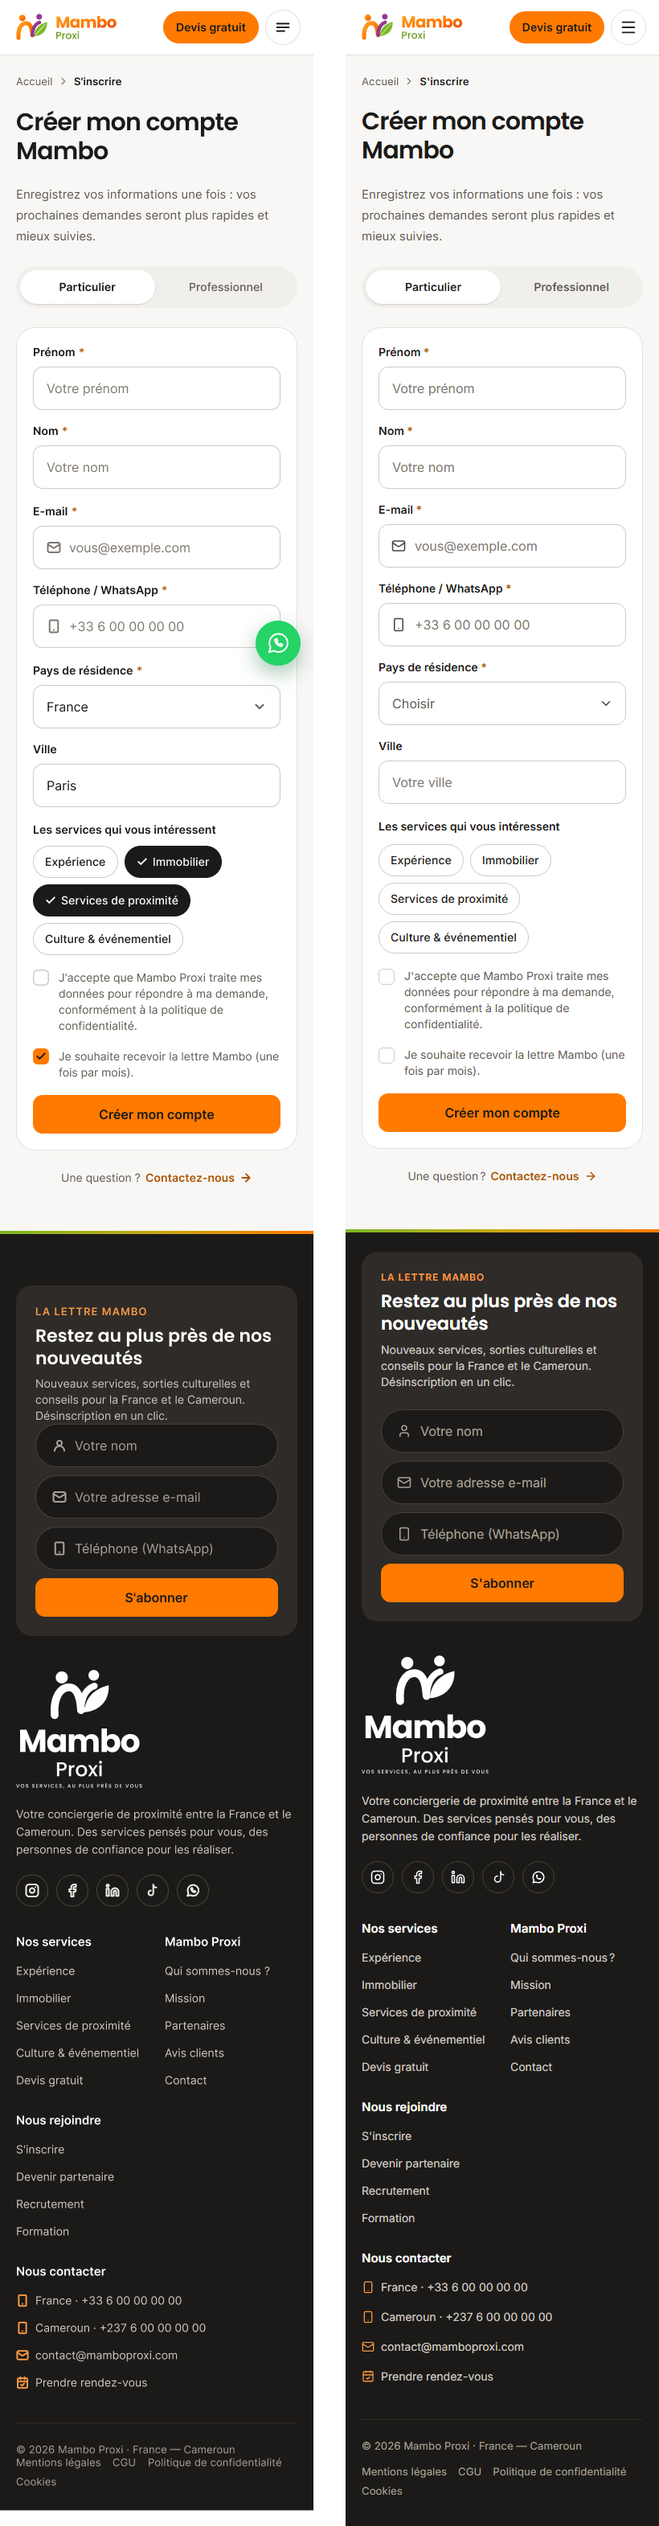
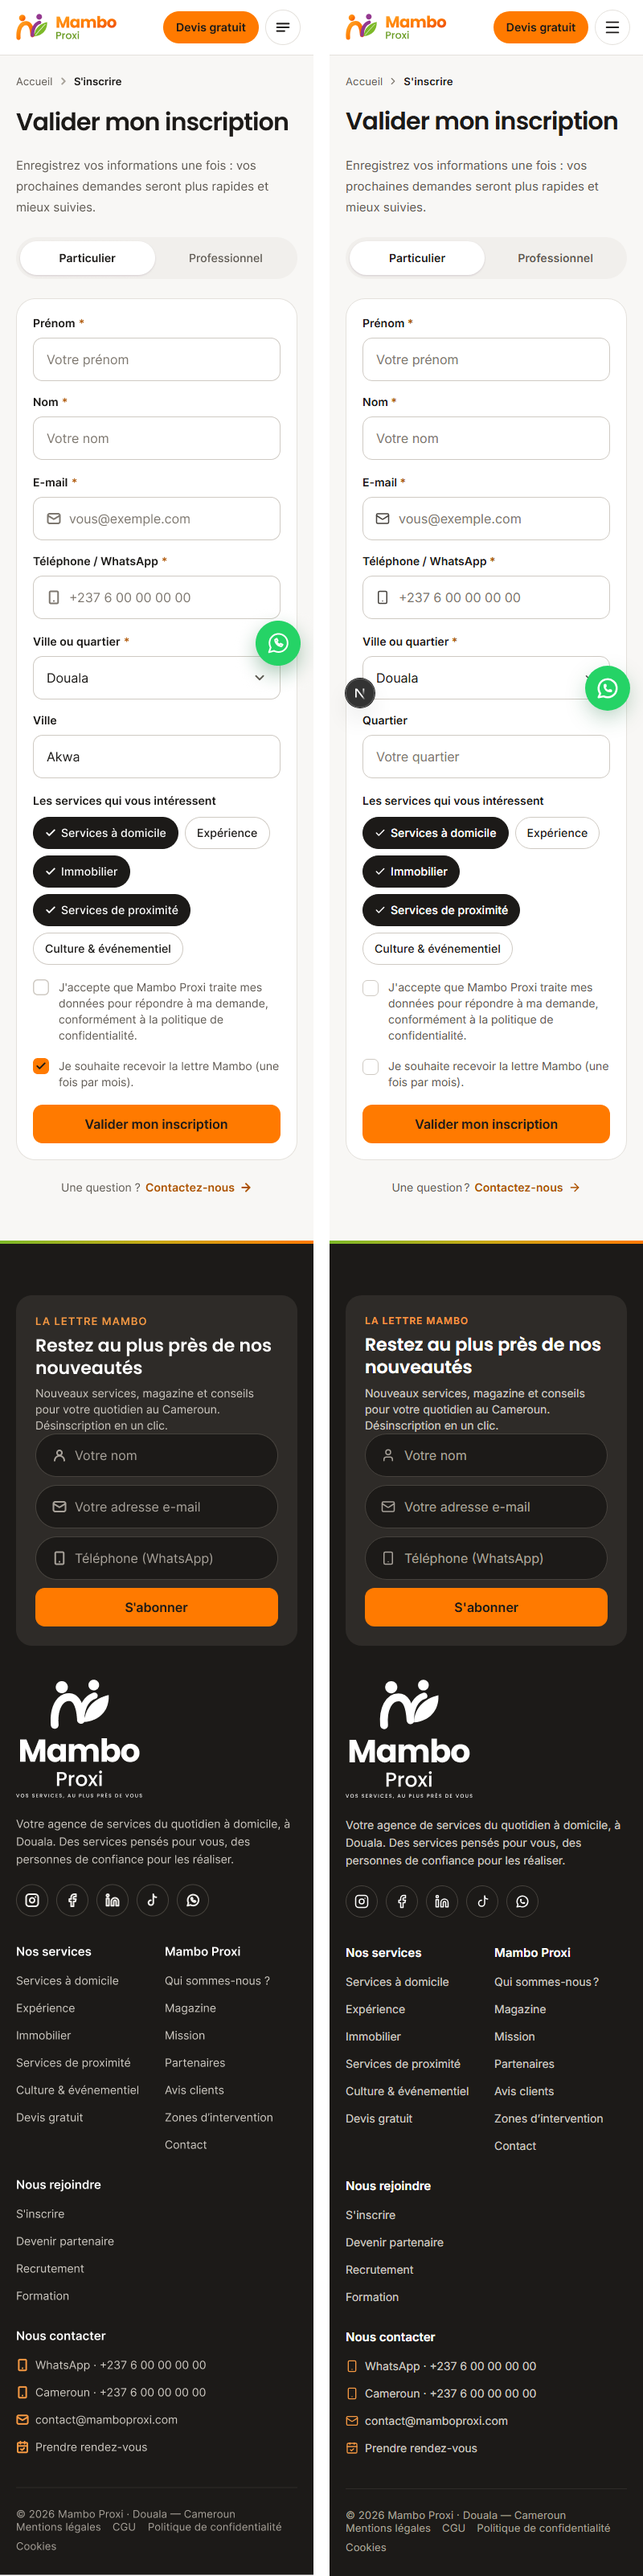
feat(inscription): en-tête et métadonnées traduits

Changed region(s): [[0.0, 0.0, 1.0, 1.0], [0.375, 0.2183, 0.4688, 0.2807], [0.9062, 0.2495, 1.0, 0.2807]]

diff --git a/src/app/[locale]/(site)/inscription/page.tsx b/src/app/[locale]/(site)/inscription/page.tsx
@@ -1,27 +1,31 @@
 import type { Metadata } from 'next';
+import { getTranslations } from 'next-intl/server';
 import { RegistrationLayout } from '@/components/forms/registration-layout';
 import { unwrap } from '@/lib/api/result';
 import { api, cached } from '@/lib/api/server';
 import { cacheTags } from '@/lib/api/tags';
 import { seoMetadata } from '@/lib/seo/metadata';
 
-export const metadata: Metadata = seoMetadata({
-  title: 'S’inscrire',
-  description:
-    'Créez votre compte Mambo : enregistrez vos informations une fois, ou rejoignez notre réseau de partenaires au Cameroun.',
-  path: '/inscription',
-});
+export async function generateMetadata(): Promise<Metadata> {
+  const t = await getTranslations('registration');
+  return seoMetadata({ title: t('metaTitle'), description: t('metaDescription'), path: '/inscription' });
+}
 
 type SearchParams = { searchParams: Promise<{ profil?: string }> };
 
 /** S'inscrire (particulier `70:10558`, professionnel `70:11134`, mobile `70:10903` / `70:11492`). */
 export default async function RegistrationPage({ searchParams }: SearchParams) {
   const { profil } = await searchParams;
-  const categories = await unwrap(api.GET('/v1/categories', cached([cacheTags.categories])));
+  const [categories, t, tRubrique] = await Promise.all([
+    unwrap(api.GET('/v1/categories', cached([cacheTags.categories]))),
+    getTranslations('registration'),
+    getTranslations('rubrique'),
+  ]);
   return (
     <RegistrationLayout
       initialProfile={profil === 'professionnel' ? 'PROFESSIONNEL' : 'PARTICULIER'}
       categories={categories.map((category) => ({ slug: category.slug, name: category.name }))}
+      labels={{ home: tRubrique('home'), breadcrumb: t('breadcrumb'), title: t('title') }}
     />
   );
 }
